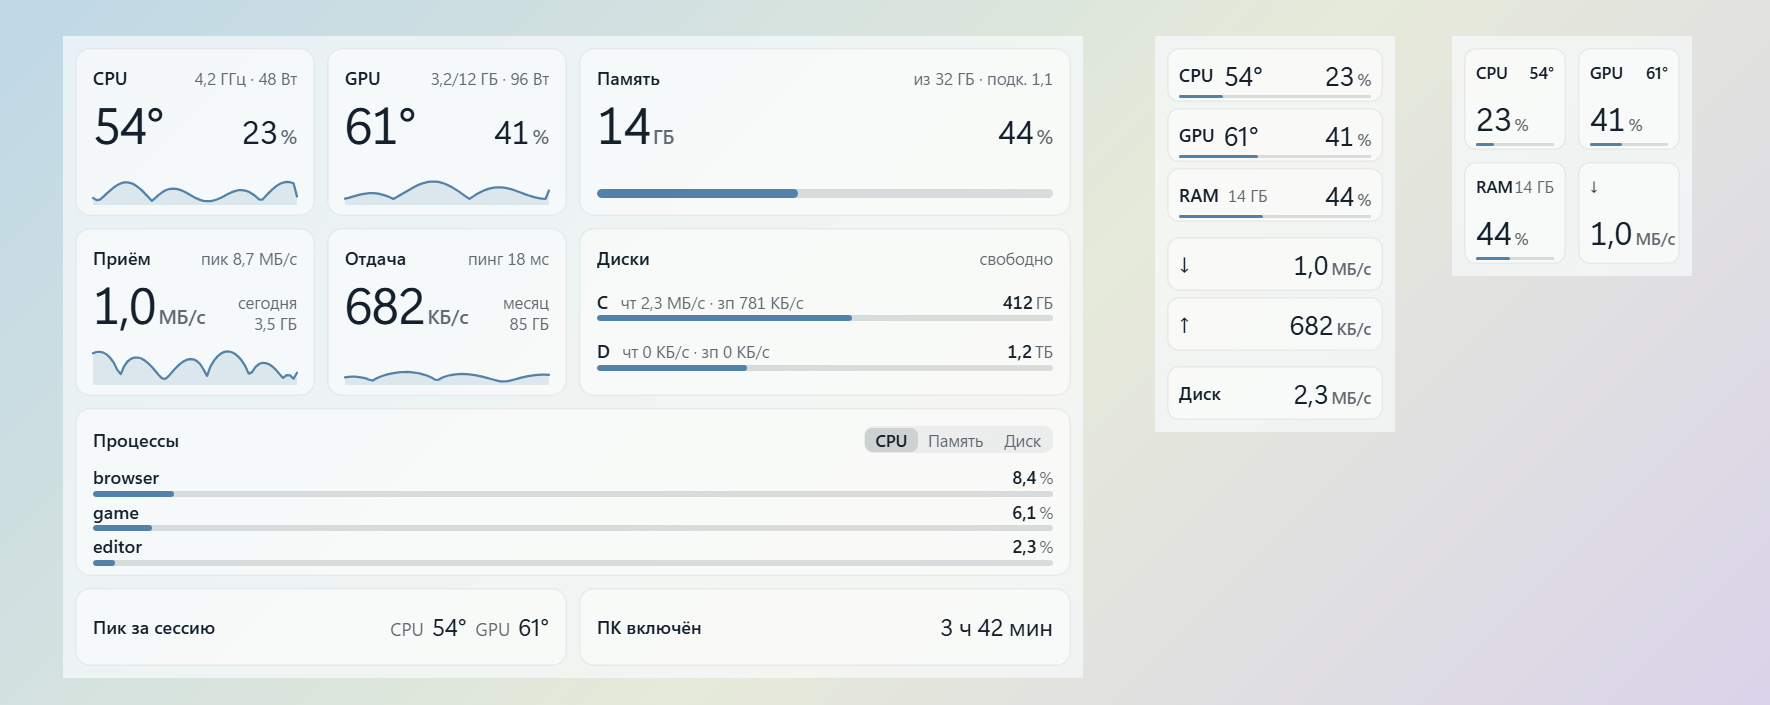
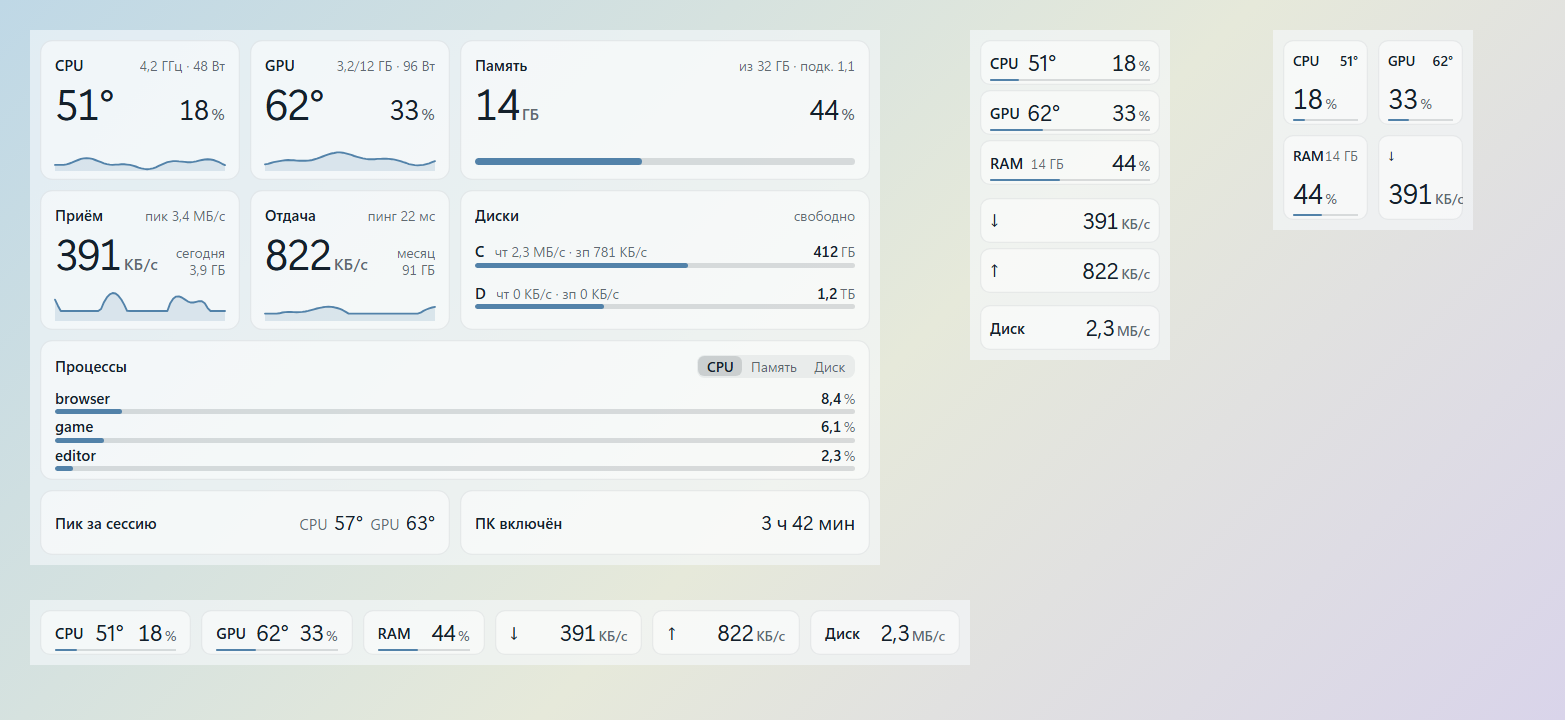
README: разделы по темам и новые снимки

Changed region(s): [[0.0, 0.0312, 0.7974, 0.9674], [0.8281, 0.0624, 0.9508, 0.3745], [0.3067, 0.2809, 0.3374, 0.3121]]

diff --git a/README.md b/README.md
@@ -12,26 +12,51 @@ Windows 10/11, 64-бит. [Что нужно](#требования) · [Как 
 
 Виджет на рабочий стол Windows: загрузка и температуры процессора и видеокарты, память, сеть, диски и процессы. Один exe, живёт в трее, всё настраивается из самого виджета.
 
-![Три темы: Лист, Прибор, Заливка](media/themes.png)
+![Семь тем: Лист, Прибор, Заливка, ЖК-табло, Осциллограф, Чертёж, Пиксели](media/themes.png)
 
 ## Возможности
 
-- **Плитки:** CPU, GPU, память, сеть (скорость, пинг, трафик за день и месяц), диски, топ процессов, пики за сессию, время работы ПК. По желанию часы, календарь, погода, энергия, фокус-таймер и лимиты Claude Code.
-- **Темы:** «Лист» (стекло), «Прибор» (шкалы с делениями), «Заливка» (цветной градиент), «ЖК-табло» (сегментные цифры), «Осциллограф», «Чертёж», «Пиксели». У каждой светлый, тёмный вариант и «как в Windows». Свой цвет для любой плитки.
-- **Режимы:** Панель, Широкая, Колонка, Полоска, Квадрат. У левого или правого края экрана виджет сам становится колонкой.
-- **Раскладка:** плитки перетаскиваются мышью, скрываются, бывают в половину или во всю ширину, часть из них ещё и тонкими.
-- **Тревоги:** пороги температуры и заполнения, по желанию уведомления Windows.
-- **Подробности по наведению:** задержите мышь на плитке. У CPU, GPU, памяти, сети, энергии и дисков есть графики (10 минут или час, минимум, среднее, максимум), у остальных плиток своя карточка с деталями.
-- **Игровой режим:** FPS, 1% low и время кадра поверх игры в окне или в окне без рамки (Ctrl+Shift+F). Без внедрения в игру; эксклюзивный полный экран перекрыть нельзя.
-- **Итог игры:** после игры карточка с FPS, 1% low, фризами, пиками температур и расходом энергии; её можно сохранить картинкой.
-- **Часы, календарь, погода:** по несколько видов часов и календаря в стиле каждой темы, анимированный фон погоды (отключается).
-- **Ещё в плитках:** по желанию столбики загрузки по потокам CPU, карта памяти по процессам и значок вентилятора видеокарты.
+### Что показывает
+
+- **Плитки:** CPU, GPU, память, сеть (скорость, пинг, трафик за день и месяц), диски, топ процессов, пики за сессию, время работы ПК.
+- **По желанию:** часы, календарь, погода, энергия, фокус-таймер и лимиты Claude Code.
 - **Энергия:** расход процессора и видеокарты в Вт·ч за день и месяц, стоимость по вашему тарифу. Остальные части ПК не учитываются.
 - **Фокус:** таймер помидоро со звуком и уведомлением.
-- **Профили:** до шести наборов оформления, перенос через файл.
-- **Мелочи:** лежит на рабочем столе и остаётся после Win+D, может быть поверх всех окон, масштаб, защита от выгорания экрана.
+- **Тревоги:** пороги температуры и заполнения, по желанию уведомления Windows.
 
-![Режимы: Широкая, Колонка, Квадрат](media/modes.png)
+### Как выглядит
+
+- **Семь тем:** «Лист» (стекло), «Прибор» (шкалы с делениями), «Заливка» (цветной градиент), «ЖК-табло» (сегментные цифры), «Осциллограф», «Чертёж», «Пиксели». У каждой светлый, тёмный вариант и «как в Windows». Свой цвет для любой плитки.
+- **Режимы:** Панель, Широкая, Колонка, Полоска, Квадрат. У левого или правого края экрана виджет сам становится колонкой.
+- **Раскладка:** плитки перетаскиваются мышью, скрываются, бывают в половину или во всю ширину, часть из них ещё и тонкими.
+- **Профили:** до шести наборов оформления, перенос через файл.
+
+![Режимы: Широкая, Колонка, Квадрат, Полоска](media/modes.png)
+
+### Часы, погода и подробности в плитках
+
+- **Часы и календарь:** по несколько видов в стиле каждой темы.
+- **Погода:** сейчас и на неделю, с анимированным фоном (отключается).
+- **По желанию:** столбики загрузки по потокам CPU, карта памяти по процессам и значок вентилятора видеокарты (настройки соответствующей плитки).
+
+![Часы, календарь, погода, потоки CPU и карта памяти](media/features.png)
+
+### Подробности по наведению
+
+Задержите мышь на плитке. У CPU, GPU, памяти, сети, энергии и дисков есть графики (10 минут или час, минимум, среднее, максимум), у остальных плиток своя карточка с деталями.
+
+![Карточки по наведению: сеть, диски, погода](media/hover.png)
+
+### Игры
+
+- **Игровой режим:** FPS, 1% low и время кадра поверх игры в окне или в окне без рамки (Ctrl+Shift+F). Без внедрения в игру; эксклюзивный полный экран перекрыть нельзя.
+- **Итог игры:** после игры карточка с FPS, 1% low, фризами, пиками температур и расходом энергии; её можно сохранить картинкой.
+
+<img src="media/game.png" width="600" alt="Карточка итога игры">
+
+### Мелочи
+
+Виджет лежит на рабочем столе и остаётся после Win+D, может быть поверх всех окон, меняет масштаб, есть защита от выгорания экрана.
 
 *На снимках примерные данные. Интерфейс на русском языке.*
 

diff --git a/README.en.md b/README.en.md
@@ -12,30 +12,55 @@ Windows 10/11, 64-bit. [Requirements](#requirements) · [How to install](#instal
 
 A Windows desktop widget showing CPU and GPU load and temperatures, memory, network, disks and processes. A single exe that lives in the tray; everything is configured from the widget itself.
 
-![Three themes: Sheet, Gauge, Fill](media/themes.png)
+![Seven themes: Sheet, Gauge, Fill, LCD, Oscilloscope, Blueprint, Pixels](media/themes.png)
 
 > **Note:** the interface is currently in Russian only.
 
 ## Features
 
-- **Tiles:** CPU, GPU, memory, network (speed, ping, daily and monthly traffic), disks, top processes, session peaks, uptime. Optional clock, calendar, weather, energy, focus timer and Claude Code limits.
-- **Themes:** Sheet (glass), Gauge (segmented scales), Fill (color gradient), LCD (segmented digits), Oscilloscope, Blueprint, Pixels. Each comes in light, dark and "follow Windows". Any tile can have its own color.
-- **Modes:** Panel, Wide, Column, Strip, Square. Dragged to the left or right screen edge, the widget turns into a column.
-- **Layout:** drag tiles with the mouse, hide them, make them half or full width; some can also be thin.
-- **Alerts:** temperature and usage thresholds, optional Windows notifications.
-- **Hover details:** rest the mouse on a tile. CPU, GPU, memory, network, energy and disks have charts (10 minutes or an hour with minimum, average and maximum); the other tiles show a card with details.
-- **Game mode:** FPS, 1% low and frame time over a windowed or borderless game (Ctrl+Shift+F). Nothing is injected into the game; exclusive fullscreen cannot be overlaid.
-- **Game summary:** after a game, a card with FPS, 1% low, stutters, peak temperatures and energy used; it can be saved as an image.
-- **Clock, calendar, weather:** several clock and calendar faces matching each theme, an animated weather background (can be turned off).
-- **More in tiles:** optional per-thread CPU bars, a memory map by process and a GPU fan icon.
+### What it shows
+
+- **Tiles:** CPU, GPU, memory, network (speed, ping, daily and monthly traffic), disks, top processes, session peaks, uptime.
+- **Optional:** clock, calendar, weather, energy, focus timer and Claude Code limits.
 - **Energy:** CPU and GPU consumption in Wh per day and month, with the cost at your tariff. Other PC parts are not counted.
 - **Focus:** a pomodoro timer with sound and a notification.
+- **Alerts:** temperature and usage thresholds, optional Windows notifications.
+
+### How it looks
+
+- **Seven themes:** Sheet (glass), Gauge (segmented scales), Fill (color gradient), LCD (segmented digits), Oscilloscope, Blueprint, Pixels. Each comes in light, dark and "follow Windows". Any tile can have its own color.
+- **Modes:** Panel, Wide, Column, Strip, Square. Dragged to the left or right screen edge, the widget turns into a column.
+- **Layout:** drag tiles with the mouse, hide them, make them half or full width; some can also be thin.
 - **Profiles:** up to six appearance sets, transferable as a file.
-- **Extras:** sits on the desktop and survives Win+D, optional always-on-top, scaling, screen burn-in protection.
 
-![Modes: Wide, Column, Square](media/modes.png)
+![Modes: Wide, Column, Square, Strip](media/modes.png)
 
-*Screenshots show sample data.*
+### Clock, weather and tile details
+
+- **Clock and calendar:** several faces matching each theme.
+- **Weather:** now and for the week, with an animated background (can be turned off).
+- **Optional:** per-thread CPU bars, a memory map by process and a GPU fan icon (in the settings of that tile).
+
+![Clock, calendar, weather, CPU threads and memory map](media/features.png)
+
+### Hover details
+
+Rest the mouse on a tile. CPU, GPU, memory, network, energy and disks have charts (10 minutes or an hour with minimum, average and maximum); the other tiles show a card with details.
+
+![Hover cards: network, disks, weather](media/hover.png)
+
+### Games
+
+- **Game mode:** FPS, 1% low and frame time over a windowed or borderless game (Ctrl+Shift+F). Nothing is injected into the game; exclusive fullscreen cannot be overlaid.
+- **Game summary:** after a game, a card with FPS, 1% low, stutters, peak temperatures and energy used; it can be saved as an image.
+
+<img src="media/game.png" width="600" alt="Game summary card">
+
+### Extras
+
+The widget sits on the desktop and survives Win+D, can be always on top, scales, and protects against screen burn-in.
+
+*Screenshots show sample data and the Russian interface.*
 
 ## Requirements
 
